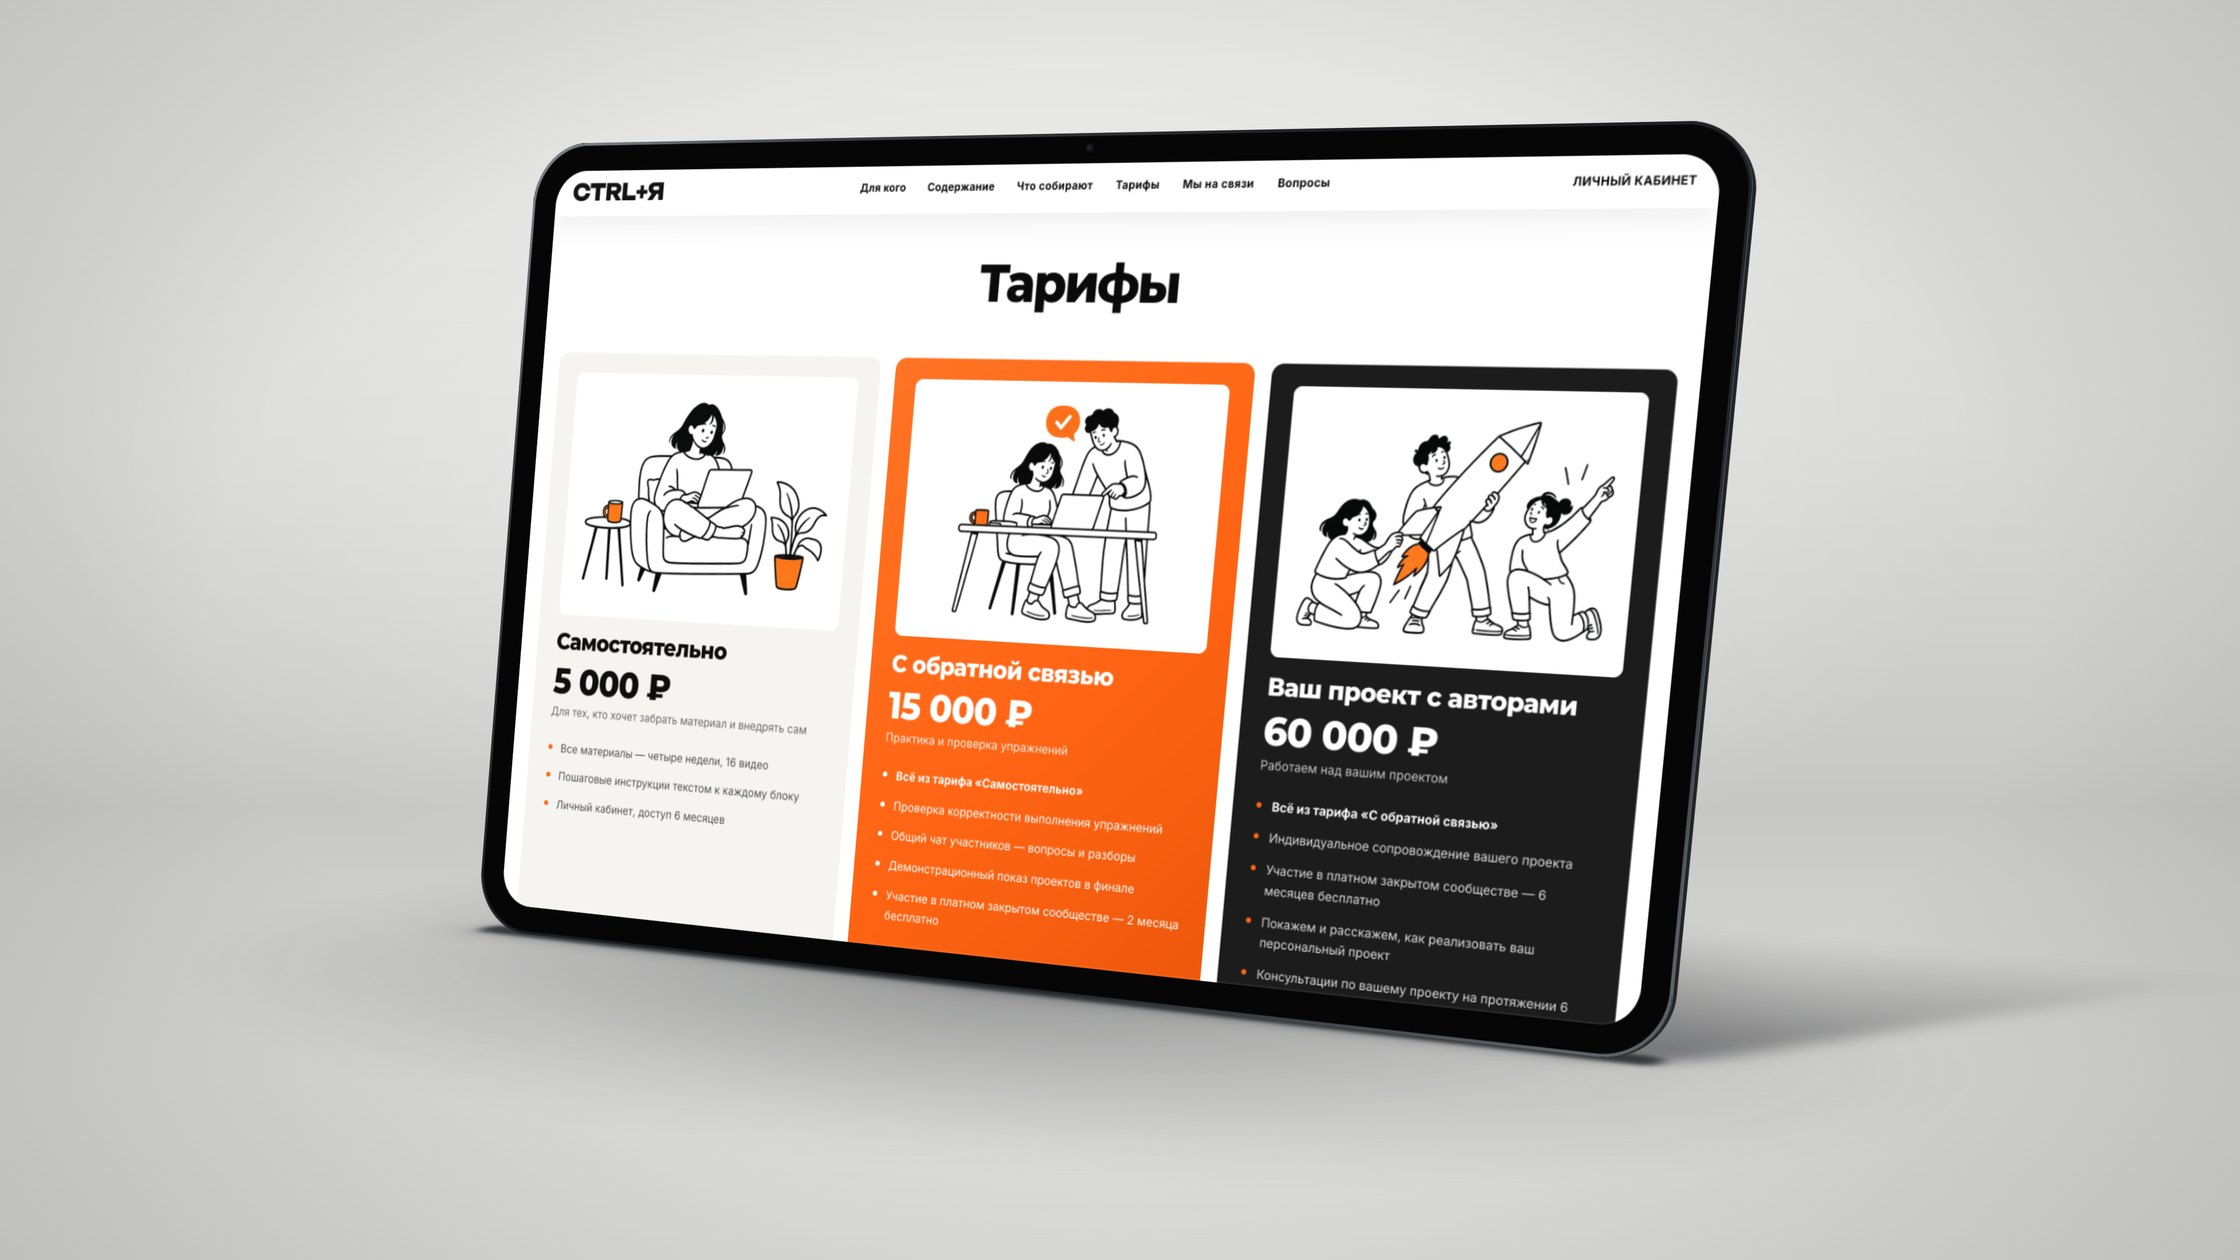
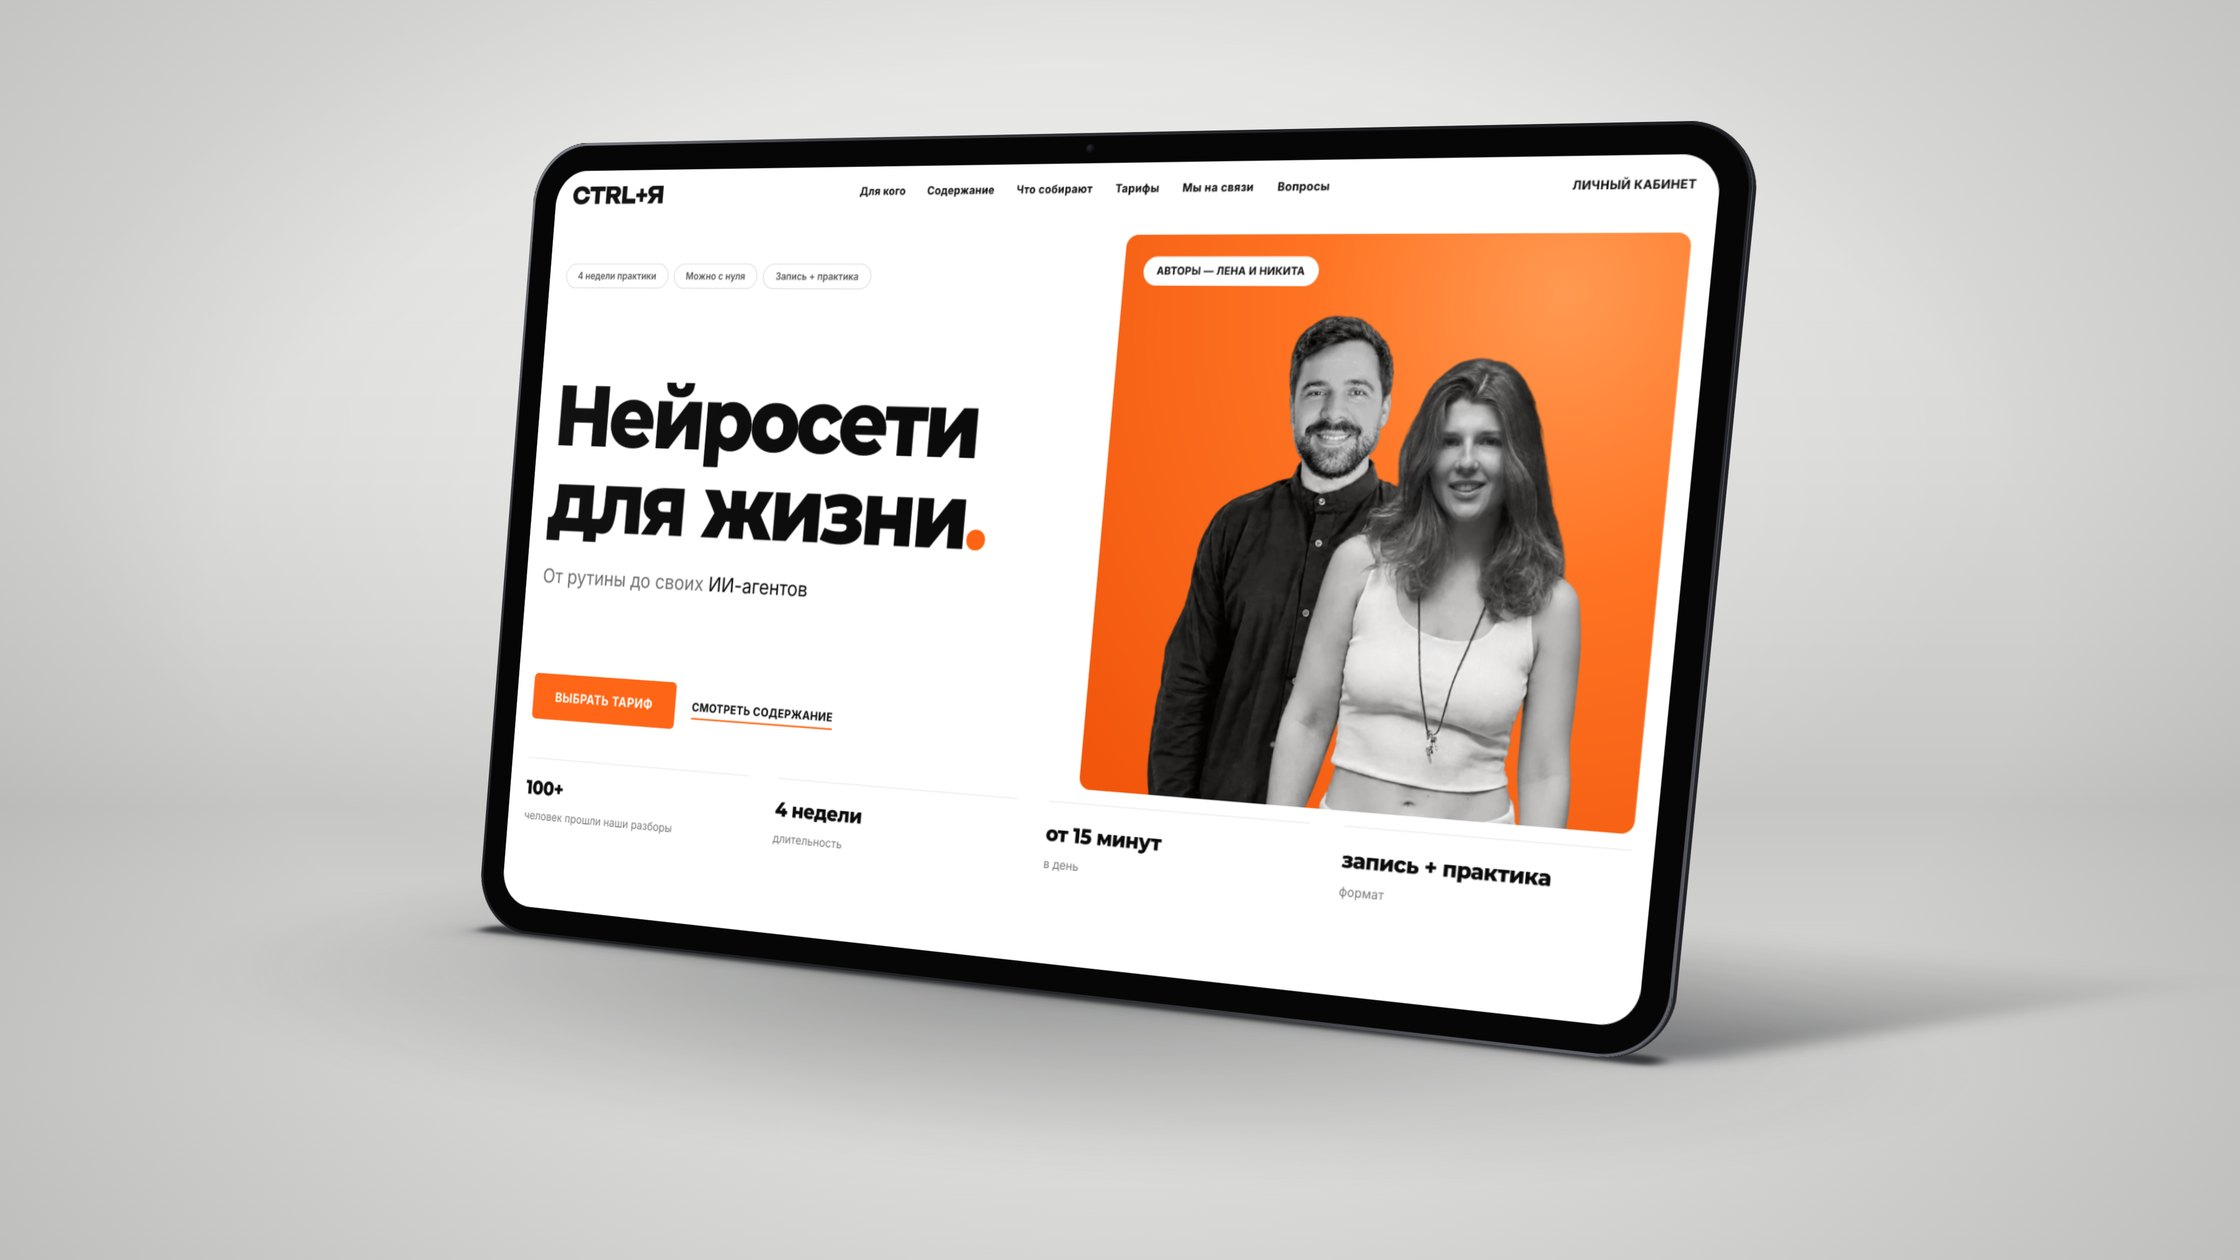
Update CTRL+Я and Teraso previews, rename Mocchi to Mochi
- CTRL+Я card now shows the site's main screen instead of the pricing block
- Teraso card preview uses Russian text to match the rest of the portfolio
- Mocchi renamed to Mochi (title, dock label, slug, asset file names)

diff --git a/data/content.js b/data/content.js
@@ -70,14 +70,14 @@ export const projects = [
     media: { src: 'assets/projects/2life.jpg', tone: '#efede8', alt: 'Дашборд 2life на демо-данных' },
   },
   {
-    slug: 'mocchi',
-    title: 'Mocchi',
-    dockLabel: 'Mocchi',
+    slug: 'mochi',
+    title: 'Mochi',
+    dockLabel: 'Mochi',
     icon: { bg: '#eea4c4', fg: '#ffffff', glyph: 'круглое моти', wave: '#e0a9c0' },
     description: [
       'Управленческий учёт для небольшого производства моти в Бразилии. Техкарты с вложенными заготовками считают себестоимость с точностью до грамма, а чеки хранят снимок цены и себестоимости на момент продажи, поэтому правка рецепта не искажает историю. Стек: Bun, Hono, React, Prisma и SQLite, всё упаковано в приложение для macOS с автообновлением. Маржа по каждому вкусу, выручка и движение денег видны в одном дашборде.',
     ],
-    media: { src: 'assets/projects/mocchi.jpg', tone: '#1c1d21', alt: 'Дашборд Mocchi на демо-данных' },
+    media: { src: 'assets/projects/mochi.jpg', tone: '#1c1d21', alt: 'Дашборд Mochi на демо-данных' },
   },
   {
     slug: 'telegram-editor',
@@ -162,6 +162,6 @@ export const projects = [
     description: [
       'Сайт-каталог террасной доски из ДПК и дерева, собран на Astro: 30 позиций в 5 категориях, калькулятор материала, квиз-расчёт, галерея объектов и блог. Вся серверная часть — один PHP-файл на обычном хостинге, который отправляет заявки в почту, Telegram, Meta Conversions API и CRM. Админка на React публикует каталог в один клик через GitHub Actions с историей версий и откатом, так что владелец сам правит цены.',
     ],
-    media: { src: 'assets/projects/teraso.jpg', tone: '#ffffff', alt: 'Каталог террасной доски на сайте Teraso' },
+    media: { src: 'assets/projects/teraso.jpg', tone: '#ffffff', alt: 'Главный экран сайта Teraso' },
   },
 ];
